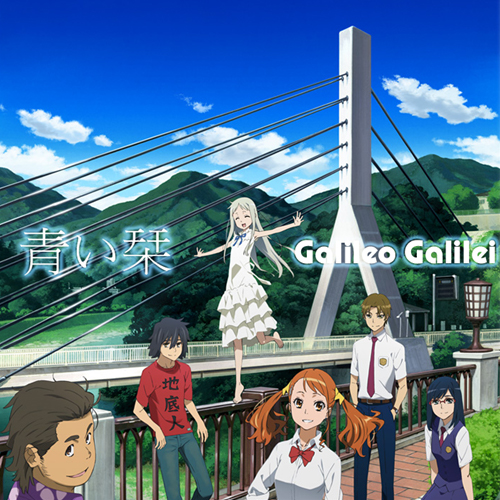
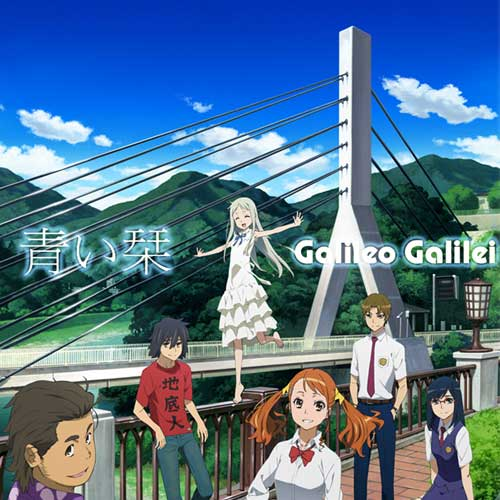
Small optimization
1. music site music name click logic (old: click-> just see song detail infomation; new: click-> play music directly)
2. Home page image reshape
3. Upload smaller cover images
4. Change some spell wrong names

diff --git a/www.sigmameow.com/art/music.html b/www.sigmameow.com/art/music.html
@@ -28,20 +28,20 @@
     });
   </script>
   
-  <script type="text/javascript" src="music.js"></script>
+  <script type="text/javascript" src="music_db.js"></script>
   
   <script type="text/javascript">
     function switch2song() {
       $('#musictab a[href="#tab-song"]').tab('show');
     };
     function switch2songlist() {
-      ctx.showSongInfo(ctx.currentSong);
+      /*ctx.showSongInfo(ctx.currentSong);*/
       $('#musictab a[href="#tab-songlist"]').tab('show');
-      $jq22$('#play_btn').attr('onClick', "ctx.play()");
+      /*$jq22$('#play_btn').attr('onClick', "ctx.play()");
       $jq22$('#score_btn').children('a').attr('href', song[ctx.currentSong].score);
       $jq22$('#download_btn').children('a').attr('href', song[ctx.currentSong].mp3);
       if (ctx.isPlaying){ctx.play()}
-      else {ctx.pause()};
+      else {ctx.pause()};*/
     };
     /*function switch2playlist() {
       $('#musictab a[href="#tab-playlist"]').tab('show');
@@ -133,13 +133,12 @@
       });
     };
     
-    ctx.showSongInfo = function (songid) {
+    ctx.playNewSong = function (songid) {
       /*=====update 音乐详情页 信息=====*/
-      /*用途：用户查看歌曲的详细信息*/
       $jq22$('#detail_bg').attr('style', "background-image: url("+song[songid].cover+")");
       $jq22$('#detail_name').text(song[songid].name);
       $jq22$('#detail_singer').text(song[songid].singer);
-      /*mv button*/
+      /*[mv] button display*/
       if (typeof song[songid].mv !== 'string'){
         $jq22$('#detail_mv').hide();
       }
@@ -147,16 +146,11 @@
         $jq22$('#detail_mv').show();
         $jq22$('#detail_mv').children('a').attr('href', song[songid].mv)
       };
-      $jq22$('#detail_cover').attr('style', "background-image: url("+song[songid].cover+");animation-play-state:paused;");
-      ctx.moveNeedle(false);
-      $jq22$('#play_btn').attr('onClick', "ctx.playNewSong("+songid+")");
+      /*改变碟片图片*/
+      $jq22$('#detail_cover').attr('style', "background-image: url("+song[songid].cover+");");
+      /*改变按钮信息*/
       $jq22$('#score_btn').children('a').attr('href', song[songid].score);
       $jq22$('#download_btn').children('a').attr('href', song[songid].mp3);
-                                
-      switch2song();
-    };
-    
-    ctx.playNewSong = function (songid) {
       /*=====update 底栏 信息=====*/
       $jq22$('#buttom_pic').attr('src', song[songid].cover);
       $jq22$('#buttom_name').text(song[songid].name);
@@ -253,30 +247,30 @@
                     <tr>
                       <td class="index">01</td>
                       <td class="text-center">
-                        <i class="fa fa-play-circle-o btn btn-sm" aria-hidden="true"></i>
-                        <i class="fa fa-download btn btn-sm" aria-hidden="true"></i>
+                        <a href="score/secret_base.pdf" target="_blank"><i class="fa fa-book btn btn-sm" aria-hidden="true"></i></a>
+                        <a href="audio/Secret Base.mp3" download><i class="fa fa-download btn btn-sm" aria-hidden="true"></i></a>
                       </td>
-                      <td onClick="ctx.showSongInfo(0)" style="cursor:pointer">Secret Base（动画《未闻花名》ed）</td>
+                      <td><span onClick="ctx.playNewSong(0)" style="cursor:pointer">Secret Base（动画《未闻花名》ed）</span></td>
                       <td>浩瀚猫</td>
                       <td>05:36</td>
                     </tr>
                     <tr>
                       <td class="index">02</td>
                       <td class="text-center">
-                        <i class="fa fa-play-circle-o btn btn-sm" aria-hidden="true"></i>
-                        <i class="fa fa-download btn btn-sm" aria-hidden="true"></i>
+                        <a href="score/天空之城.pdf" target="_blank"><i class="fa fa-book btn btn-sm" aria-hidden="true"></i></a>
+                        <a href="audio/天空之城.mp3" download><i class="fa fa-download btn btn-sm" aria-hidden="true"></i></a>
                       </td>
-                      <td onClick="ctx.showSongInfo(1)" style="cursor:pointer">Innocent（动画《天空之城》主题曲）</td>
+                      <td><span onClick="ctx.playNewSong(1)" style="cursor:pointer">Innocent（动画《天空之城》主题曲）</span></td>
                       <td>浩瀚猫 | 飘零</td>
                       <td>02:07</td>
                     </tr>
                     <tr>
                       <td class="index">03</td>
                       <td class="text-center">
-                        <i class="fa fa-play-circle-o btn btn-sm" aria-hidden="true"></i>
-                        <i class="fa fa-download btn btn-sm" aria-hidden="true"></i>
+                        <a href="score/青い栞.pdf" target="_blank"><i class="fa fa-book btn btn-sm" aria-hidden="true"></i></a>
+                        <a href="audio/Blue Bookmark.mp3" download><i class="fa fa-download btn btn-sm" aria-hidden="true"></i></a>
                       </td>
-                      <td onClick="ctx.showSongInfo(2)" style="cursor:pointer">青い栞（动画《未闻花名》op）</td>
+                      <td><span onClick="ctx.playNewSong(2)" style="cursor:pointer">青い栞（动画《未闻花名》op）</span><span class="mv-label"><a href="https://www.bilibili.com" target="_blank" >MV</a></span></td>
                       <td>浩瀚猫</td>
                       <td>05:40</td>
                     </tr>
@@ -291,12 +285,12 @@
               <i class="fa fa-compress" aria-hidden="true"></i>
             </div>
             <!-- 模糊背景-->
-            <div class="bg_blur" id="detail_bg" style="background-image: url(img/SecretBase.png)"></div>
+            <div class="bg_blur" id="detail_bg" style="background-image: url(img/SecretBase.jpg)"></div>
             <div class="container">
               <div class="title_section" id="songDetail">
                 <p class="info_song">
                   <span class="songname" id="detail_name">Secret Base（动画《未闻花名》ed）</span>
-                  <span class="label mv" id="detail_mv"><a href="#" target="_blank" >MV</a></span>
+                  <span class="mv-label" id="detail_mv"><a href="#" target="_blank" >MV</a></span>
                 </p>
                 <p class="info_singer" id="detail_singer">歌手：浩瀚猫</p>
               </div>
@@ -304,16 +298,16 @@
                 <div class="disc_needle pause-needle" id="discNeedle">
                   <img alt="" src="./img/needle.png">
                 </div>
-                <div class="disc_arc mx-auto d-block disk-cover-animation" id="detail_cover" style="background-image:url('img/SecretBase.png'); animation-play-state:paused;">
+                <div class="disc_arc mx-auto d-block disk-cover-animation" id="detail_cover" style="background-image:url('img/SecretBase.jpg'); animation-play-state:paused;">
                   <div class="poster">
                     <img alt="" src="./img/disc-o.png">
                   </div>
                 </div>
                 <div class="disc_btns text-center">
-                  <span class="btn playall" id="play_btn" onClick="ctx.play()"><i class="fa fa-play-circle-o" aria-hidden="true"></i>&nbsp;&nbsp;播放</span>
-                  <span class="btn playall" id="score_btn"><a href="score/secret_base.pdf" target="_blank"><i class="fa fa-folder" aria-hidden="true"></i>&nbsp;&nbsp;乐谱</a></span>
+                  <!--span class="btn playall" id="play_btn" onClick="ctx.play()"><i class="fa fa-play-circle-o" aria-hidden="true"></i>&nbsp;&nbsp;播放</span-->
+                  <span class="btn playall" id="score_btn"><a href="score/secret_base.pdf" target="_blank"><i class="fa fa-book" aria-hidden="true"></i>&nbsp;&nbsp;乐谱</a></span>
                   <span class="btn playall" id="download_btn"><a href="audio/Secret Base.mp3" download><i class="fa fa-download" aria-hidden="true"></i>&nbsp;&nbsp;下载</a></span>
-                  <!--span class="btn playall"><i class="fa fa-share-square-o" aria-hidden="true"></i>&nbsp;&nbsp;分享</span-->
+                  <span class="btn playall"><i class="fa fa-share-square-o" aria-hidden="true"></i>&nbsp;&nbsp;分享</span>
                 </div>
               </div>
               <!--h4>歌曲界面</h4>
@@ -337,7 +331,7 @@ aria-valuemin="0" aria-valuemax="100" style="width:20%">01:23</div>
     </div>
     <div class="control_panel">
       <div class="poster text-center">
-        <img src="./img/SecretBase.png" alt="cover" id="buttom_pic"/>
+        <img src="./img/SecretBase.jpg" alt="cover" id="buttom_pic"/>
         <div class="poster_hoverback" onclick="switch2song()"><i class="fa fa-expand" aria-hidden="true"></i></div>
       </div>
       <div class="info">

diff --git a/www.sigmameow.com/index.html b/www.sigmameow.com/index.html
@@ -37,8 +37,8 @@
 				<li data-target="#myCarousel" data-slide-to="3" class=""></li>
 			</ol>
 			<div class="carousel-inner">
-				<div class="carousel-item active">
-					<img class="second-slide" src="images/zero_slide.jpg" alt="Second slide">
+				<div class="carousel-item active" style="background-image: url(images/zero_slide.jpg)">
+					<!--img class="second-slide" src="images/zero_slide.jpg" alt="Second slide"-->
 					<div class="container">
 						<div class="carousel-caption">
 							<h1 class="text-shadow">SigmaMeow</h1>
@@ -47,8 +47,8 @@
 						</div>
 					</div>
 				</div>
-				<div class="carousel-item">
-					<img class="first-slide" src="images/first_silde.jpg" alt="First slide">
+				<div class="carousel-item" style="background-image: url(images/first_slide.jpg)">
+					<!--img class="first-slide" src="images/first_silde.jpg" alt="First slide"-->
 					<div class="container">
 						<div class="carousel-caption text-left">
 							<h1 class="text-shadow">合喵博客</h1>
@@ -57,8 +57,8 @@
 						</div>
 					</div>
 				</div>
-				<div class="carousel-item">
-					<img class="second-slide" src="images/second_slide.jpg" alt="Second slide">
+				<div class="carousel-item" style="background-image: url(images/second_slide.jpg)">
+					<!--img class="second-slide" src="images/second_slide.jpg" alt="Second slide"-->
 					<div class="container">
 						<div class="carousel-caption">
 							<h1 class="text-shadow">科研项目</h1>
@@ -67,8 +67,8 @@
 						</div>
 					</div>
 				</div>
-				<div class="carousel-item">
-					<img class="third-slide" src="images/thrid_slide.jpg" alt="Third slide">
+				<div class="carousel-item" style="background-image: url(images/third_slide.jpg)">
+					<!--img class="third-slide" src="images/thrid_slide.jpg" alt="Third slide"-->
 					<div class="container">
 						<div class="carousel-caption text-right">
 							<h1 class="text-shadow">艺术爱好</h1>

diff --git a/www.sigmameow.com/css/music.css b/www.sigmameow.com/css/music.css
@@ -49,6 +49,8 @@
     content: "\f07b"}
 .fa-trash:before {
     content: "\f1f8"}
+.fa-book:before {
+    content: "\f02d"}
 /* ==================== Content ==================== */
 .page_content {
   padding-bottom: 100px;
@@ -181,6 +183,11 @@
 .music_list>table td>i{
   color:gray;
 }
+.music_list>table td>a{
+  color:gray;
+  text-decoration: none;
+}
+
 .music_list>table th{
 	border-right:1px solid #e0e0e0;
 	box-sizing:border-box;
@@ -209,7 +216,20 @@
 	font-size:0.8rem;
 	color:#c52f30;
 }
-
+.music_list>table>tbody>tr>td>.mv-label{
+	display:inline-block;
+	/*margin:0 0px;
+	padding:5px;*/
+	border:1px solid darkgray;
+	color:darkgray;
+  font-size:12px;
+}
+.music_list>table>tbody>tr>td>.mv-label>a:link,
+.music_list>table>tbody>tr>td>.mv-label>a:visited,
+.music_list>table>tbody>tr>td>.mv-label>a:hover{
+  color:darkgray;
+  text-decoration: none;
+}
 /* -------------------- now_play -------------------- */
 .bg_blur{
   /*position:fixed;
@@ -289,16 +309,16 @@
     margin-left:50px;
   }
 }
-.title_section>.info_song>.label{
+.title_section>.info_song>.mv-label{
 	display:inline-block;
 	margin:0 6px;
 	padding:2px;
 	border:1px solid darkgray;
 	color:darkgray;
 }
-.title_section>.info_song>.label>a:link,
-.title_section>.info_song>.label>a:visited,
-.title_section>.info_song>.label>a:hover{
+.title_section>.info_song>.mv-label>a:link,
+.title_section>.info_song>.mv-label>a:visited,
+.title_section>.info_song>.mv-label>a:hover{
   color:darkgray;
   text-decoration: none;
 }
@@ -502,7 +522,7 @@
 }
 
 .control_panel>.info {
-  max-width: 30vw;
+  max-width: calc(100vw - 260px);
   float:left;
   padding-top: 10px;
   padding-left: 20px;

diff --git a/www.sigmameow.com/art/music_db.js b/www.sigmameow.com/art/music_db.js
@@ -12,17 +12,17 @@ var musicList = [
 var song = [
   {
     "id":"0",
-    "name":"Secret Base（动画《未闻花名》ed）",
+    "name":"Secret Base（《未闻花名》ed）",
     "singer":"浩瀚猫",
     "length":"05:36",
-    "cover":"img/SecretBase.png",
+    "cover":"img/SecretBase.jpg",
     "mv":NaN,
     "mp3":"audio/Secret Base.mp3",
     "score":"score/secret_base.pdf"
   },
   {
     "id":"1",
-    "name":"Innocent（动画《天空之城》主题曲）",
+    "name":"Innocent（《天空之城》主题曲）",
     "singer":"浩瀚猫|飘零",
     "length":"02:07",
     "cover":"img/天空之城.jpg",
@@ -32,7 +32,7 @@ var song = [
   },
   {
     "id":"2",
-    "name":"青い栞（动画《未闻花名》op）",
+    "name":"青い栞（《未闻花名》op）",
     "singer":"浩瀚猫",
     "length":"05:40",
     "cover":"img/蓝书签.jpg",

diff --git a/www.sigmameow.com/css/carousel.css b/www.sigmameow.com/css/carousel.css
@@ -29,6 +29,12 @@
 .carousel-item {
   height: 32rem;
   background-color: white;
+  background:  no-repeat center center;
+  background-attachment: scroll;
+  -webkit-background-size: cover;
+  -moz-background-size: cover;
+  -o-background-size: cover;
+  background-size: cover;
 }
 .carousel-item > img {
   position: absolute;
